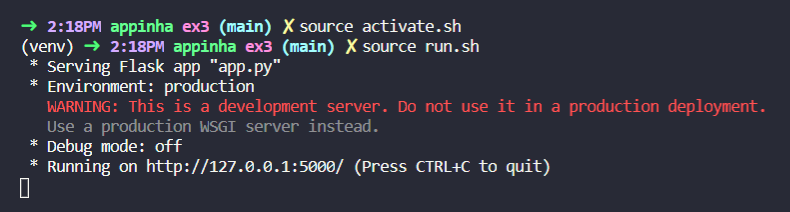
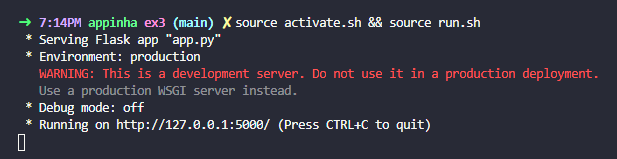
Streamlined ex.2 & ex.3 instructions in README

Changed region(s): [[0.0308, 0.0755, 0.9854, 0.8302], [0.0, 0.8302, 0.0616, 0.956]]

diff --git a/ex2/README.md b/ex2/README.md
@@ -27,21 +27,18 @@ All packages listed in [requirements.txt](requirements.txt) will be installed up
 
 After cloning this repository, `cd` to `ex2` directory and follow the instructions bellow.
 
-**1. To set and/or activate the virtual environment, run:**
+**1. To set and/or activate the virtual environment and then start the application, run:**
 ```
-$ source activate.sh
+$ source activate.sh && source run.sh
 ```
-> ***Note:** if the virtual environment is not yet set, you'll be prompted to install/update `python3-venv` and a `venv` directory will be created.*
-
-**2. Once inside `venv`, to start the application, run:**
-```
-(venv) $ source run.sh
-```
-> ***Note:** when running the virtual environment for the first time, you'll be prompted to install all necessary packages to run the application.*
 
 ![Screenshot of output on shell](screenshots/shell-activate_run.png)
 
-**3. Edit the list values (inside square brackets) in `list.json` as you like.**
+> ***Note:***
+> * *if the virtual environment is not yet set, you'll be prompted to install/update `python3-venv` and a `venv` directory will be created.*
+> * *when running the virtual environment for the first time, you'll be prompted to install all necessary packages to run the application.*
+
+**2. Edit the list values (inside square brackets) in `list.json` as you like.**
 ```
 {
 	"list": [1, 2, 3]
@@ -49,20 +46,20 @@ $ source activate.sh
 ```
 > ***Note:** the application only accepts values within the range 0 <= value <= 15.*
 
-**4. To input this list to the application, in another shell window, run:**
+**3. To input this list to the application, in another shell window, run:**
 ```
 $ sh post.sh
 ```
 
-> *The result will be printed on stdout in JSON format (see image bellow).*
+*The result will be printed on stdout in JSON format (see image bellow).*
 
 ![Screenshot of step's output on shell](screenshots/shell-post.png)
 
 > ***Note:** you can use other ways of posting the `list.json` file, such as Postman, to get the application's result.*
 
-**5. To kill the application, press `ctrl+C`.**
+**4. To kill the application, press `ctrl+C`.**
 
-**6. To deactivate the virtual environment, run:**
+**5. To deactivate the virtual environment, run:**
 ```
 (venv) $ deactivate
 ```

diff --git a/README.md b/README.md
@@ -1,8 +1,8 @@
 # Job application test - Vivo's 4th platform
 
-This repository contains coding developed for Vivo's 4th Platform\* job application.
+This repository contains coding developed for *Vivo's 4th Platform\** job application.
 
-**Python** was the programming language chosen to solve the test.
+🐍 **Python** was the programming language chosen to solve the test.
 
 *\* To learn more about [Vivo's 4th Platform](https://www.telefonica.com/en/web/press-office/-/telefonica-presents-aura-a-pioneering-way-in-the-industry-to-interact-with-customers-based-on-cognitive-intelligence).*
 
@@ -16,10 +16,10 @@ This repository contains coding developed for Vivo's 4th Platform\* job applicat
 ![GitHub top language](https://img.shields.io/github/languages/top/appinha/job_app_test-vivo_4th_platform?color=blue)
 ![GitHub last commit](https://img.shields.io/github/last-commit/appinha/job_app_test-vivo_4th_platform)
 
-* [Test subject (PDF)](prova_desenvolvedores_4p.pdf)
-* [Exercice 1](ex1/) - an algorithm that counts how many times each element in a given array occurs in a given matrix.
-* [Exercice 2](ex2/) - exercise 1 algorithm transformed into an API RESTful.
-* [Exercice 3](ex3/) - an API that reads a race log file and calculates race results.
+* 📄 [Test subject (PDF)](prova_desenvolvedores_4p.pdf)
+* 📁 [Exercice 1](ex1/) - an algorithm that counts how many times each element in a given array occurs in a given matrix.
+* 📁 [Exercice 2](ex2/) - exercise 1 algorithm transformed into an API RESTful.
+* 📁 [Exercice 3](ex3/) - an API that reads a race log file and calculates race results.
 
 ---
 
@@ -97,3 +97,4 @@ $ source venv/bin/activate
 * [Flask-RESTful documentation](https://flask-restful.readthedocs.io/en/latest/)
 * [How do you POST a JSON file with curl??](https://gist.github.com/ungoldman/11282441)
 * [RESTful-Flask parsing JSON Arrays with parse_args()](https://stackoverflow.com/questions/45613160/restful-flask-parsing-json-arrays-with-parse-args)
+* [Pandas - convert minutes to second](https://stackoverflow.com/questions/50308629/python-pandas-column-convert-minutes-to-second)

diff --git a/ex3/README.md b/ex3/README.md
@@ -43,34 +43,33 @@ All packages listed in [requirements.txt](requirements.txt) will be installed up
 
 After cloning this repository, `cd` to `ex3` directory and follow the instructions bellow.
 
-**1. To set and/or activate the virtual environment, run:**
+**1. To set and/or activate the virtual environment and then start the application, run:**
 ```
-$ source activate.sh
+$ source activate.sh && source run.sh
 ```
-> ***Note:** if the virtual environment is not yet set, you'll be prompted to install/update `python3-venv` and a `venv` directory will be created.*
-
-**2. Once inside `venv`, to start the application, run:**
-```
-(venv) $ source run.sh
-```
-> ***Note:** when running the virtual environment for the first time, you'll be prompted to install all necessary packages to run the application.*
 
 ![Screenshot of steps' output on shell](screenshots/shell-activate_run.png)
 
-**3. To input the log file to the application, in another shell window, run:**
+> ***Note:***
+> * *if the virtual environment is not yet set, you'll be prompted to install/update `python3-venv` and a `venv` directory will be created.*
+> * *when running the virtual environment for the first time, you'll be prompted to install all necessary packages to run the application.*
+
+**2. To input the log file to the application, in another shell window, run:**
 ```
 $ sh post.sh
 ```
 
 ![Screenshot of step's output on shell](screenshots/shell-post.png)
 
-**4. To see the application's result on a web browser, access `http://localhost:5000/`**
+> ***Note:** the application's return will be printed on stdout in JSON format.*
+
+💡 To see the application's result on a web browser, access `http://localhost:5000/` (see image below).
 
 ![Screenshot of step's output on browser](screenshots/browser.png)
 
-**4. To kill the application, press `ctrl+C`.**
+**3. To kill the application, press `ctrl+C`.**
 
-**5. To deactivate the virtual environment, run:**
+**4. To deactivate the virtual environment, run:**
 ```
 (venv) $ deactivate
 ```
